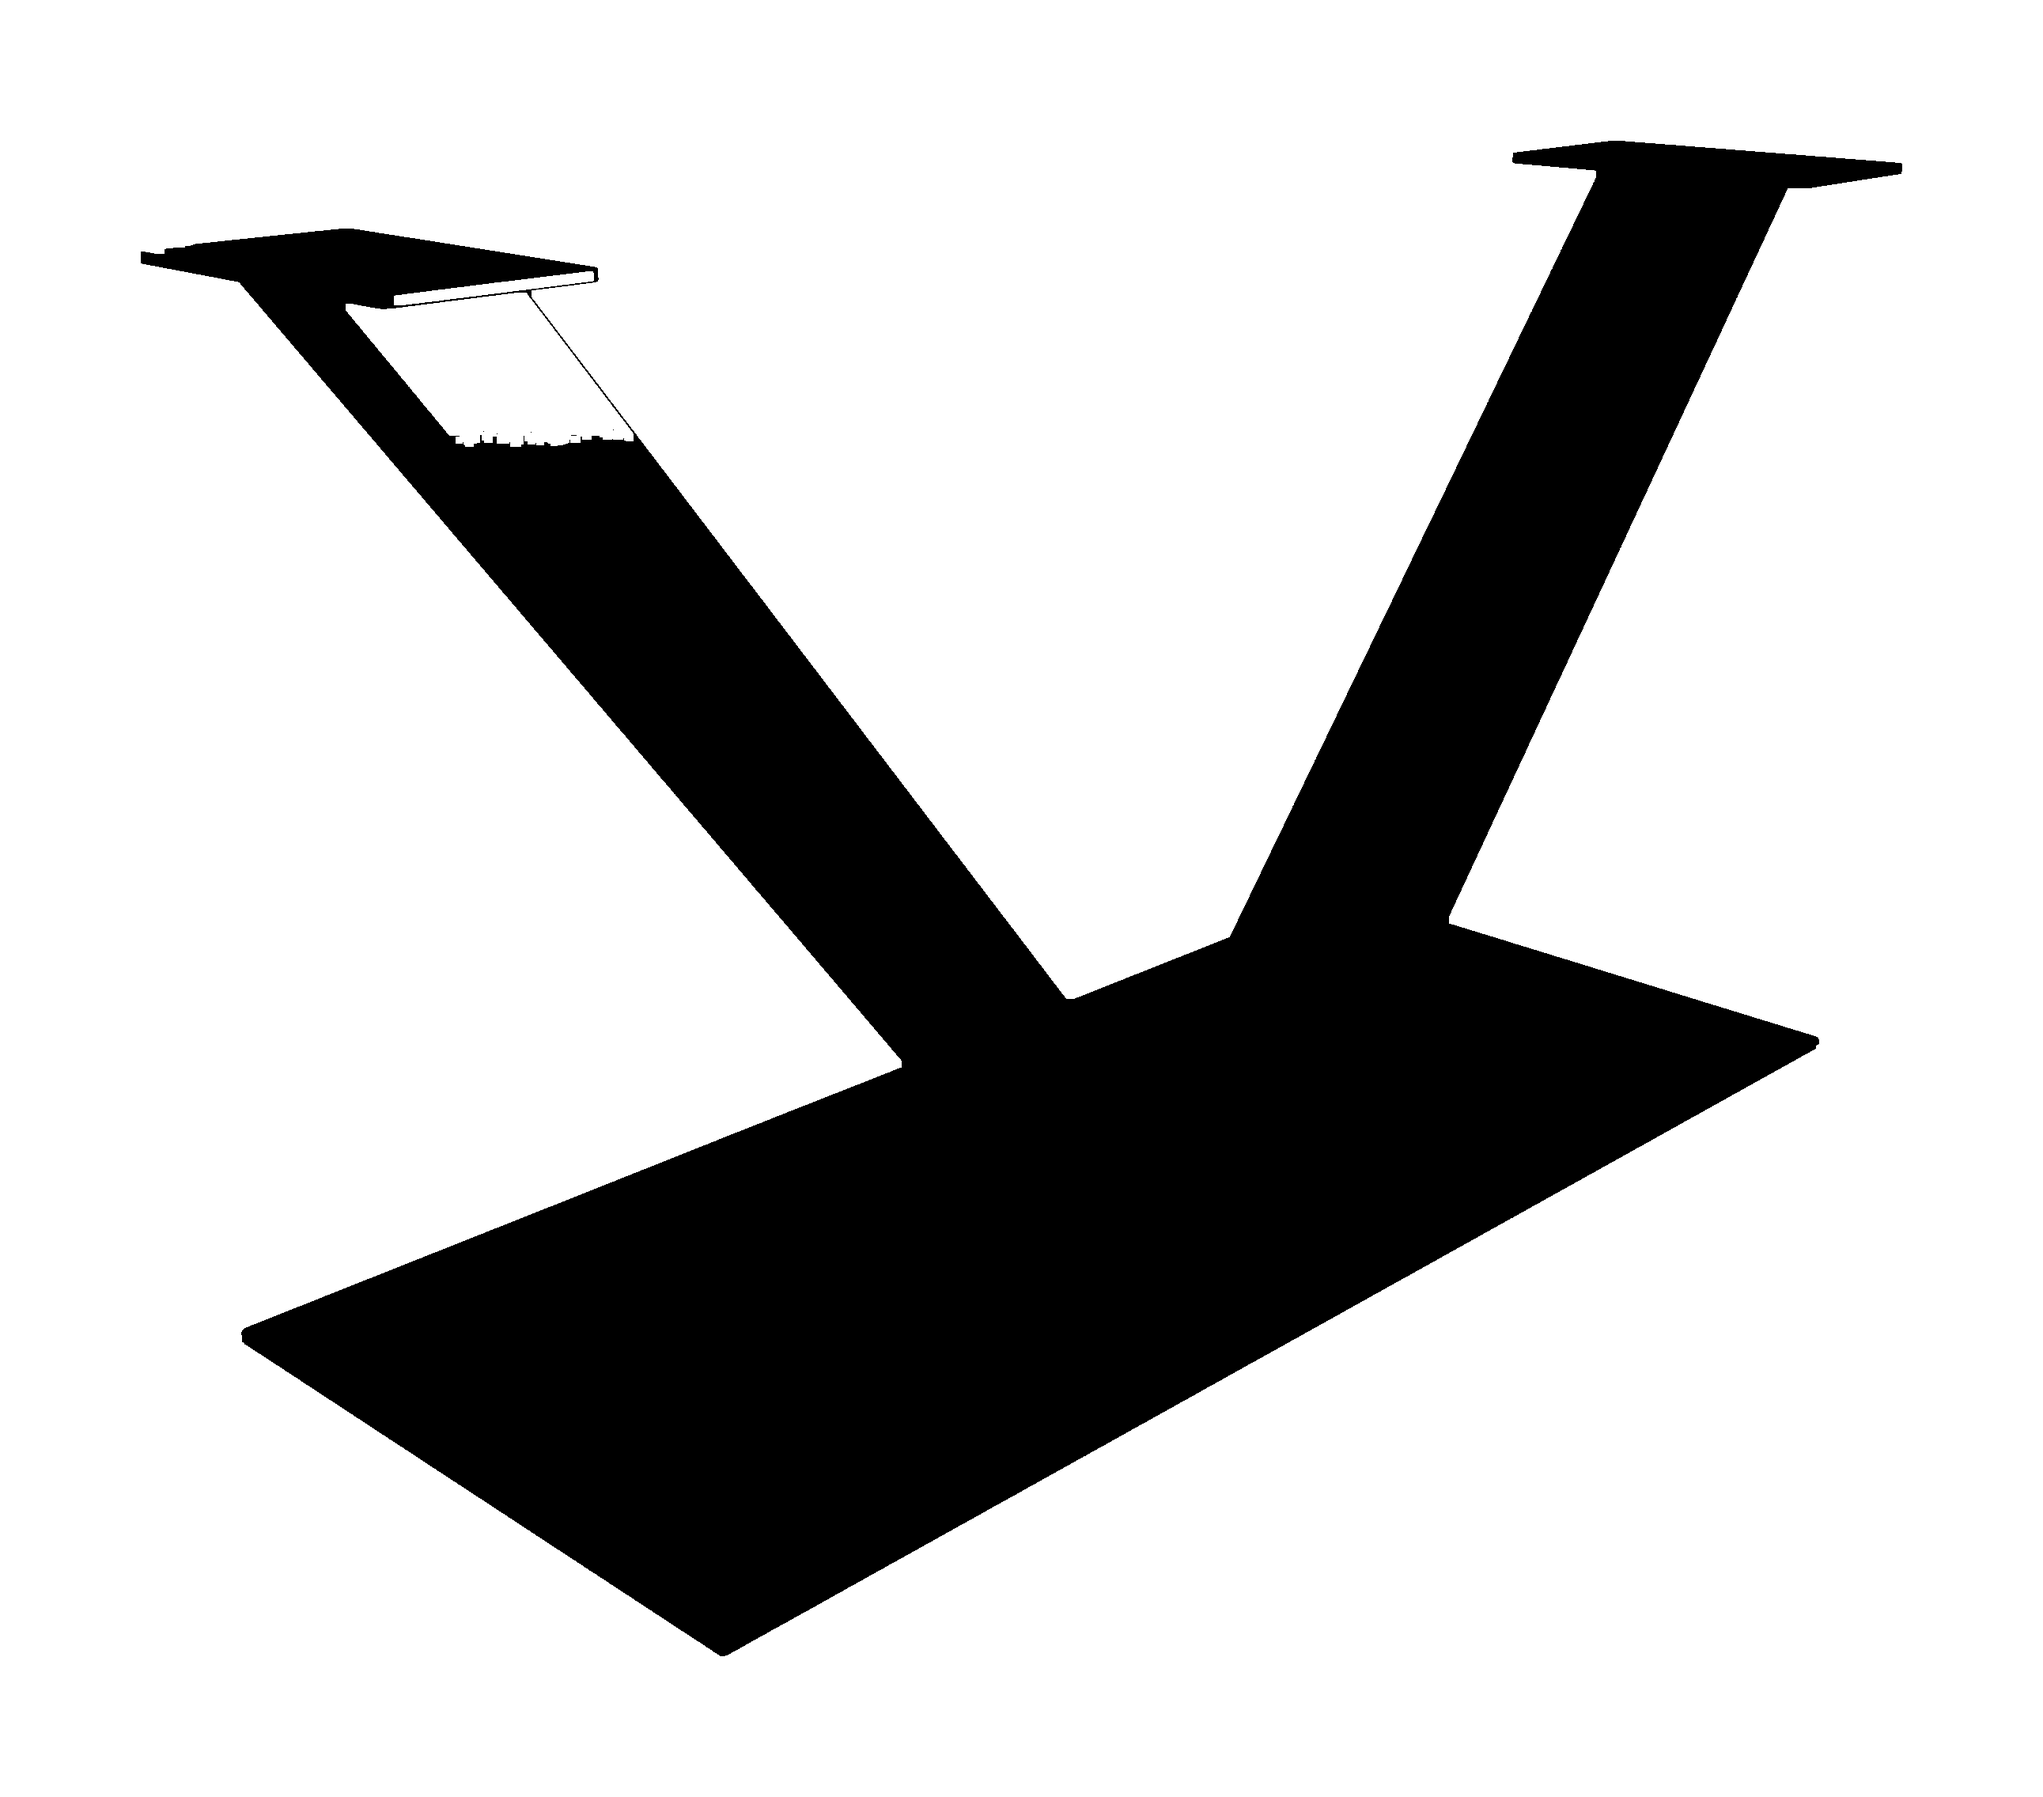
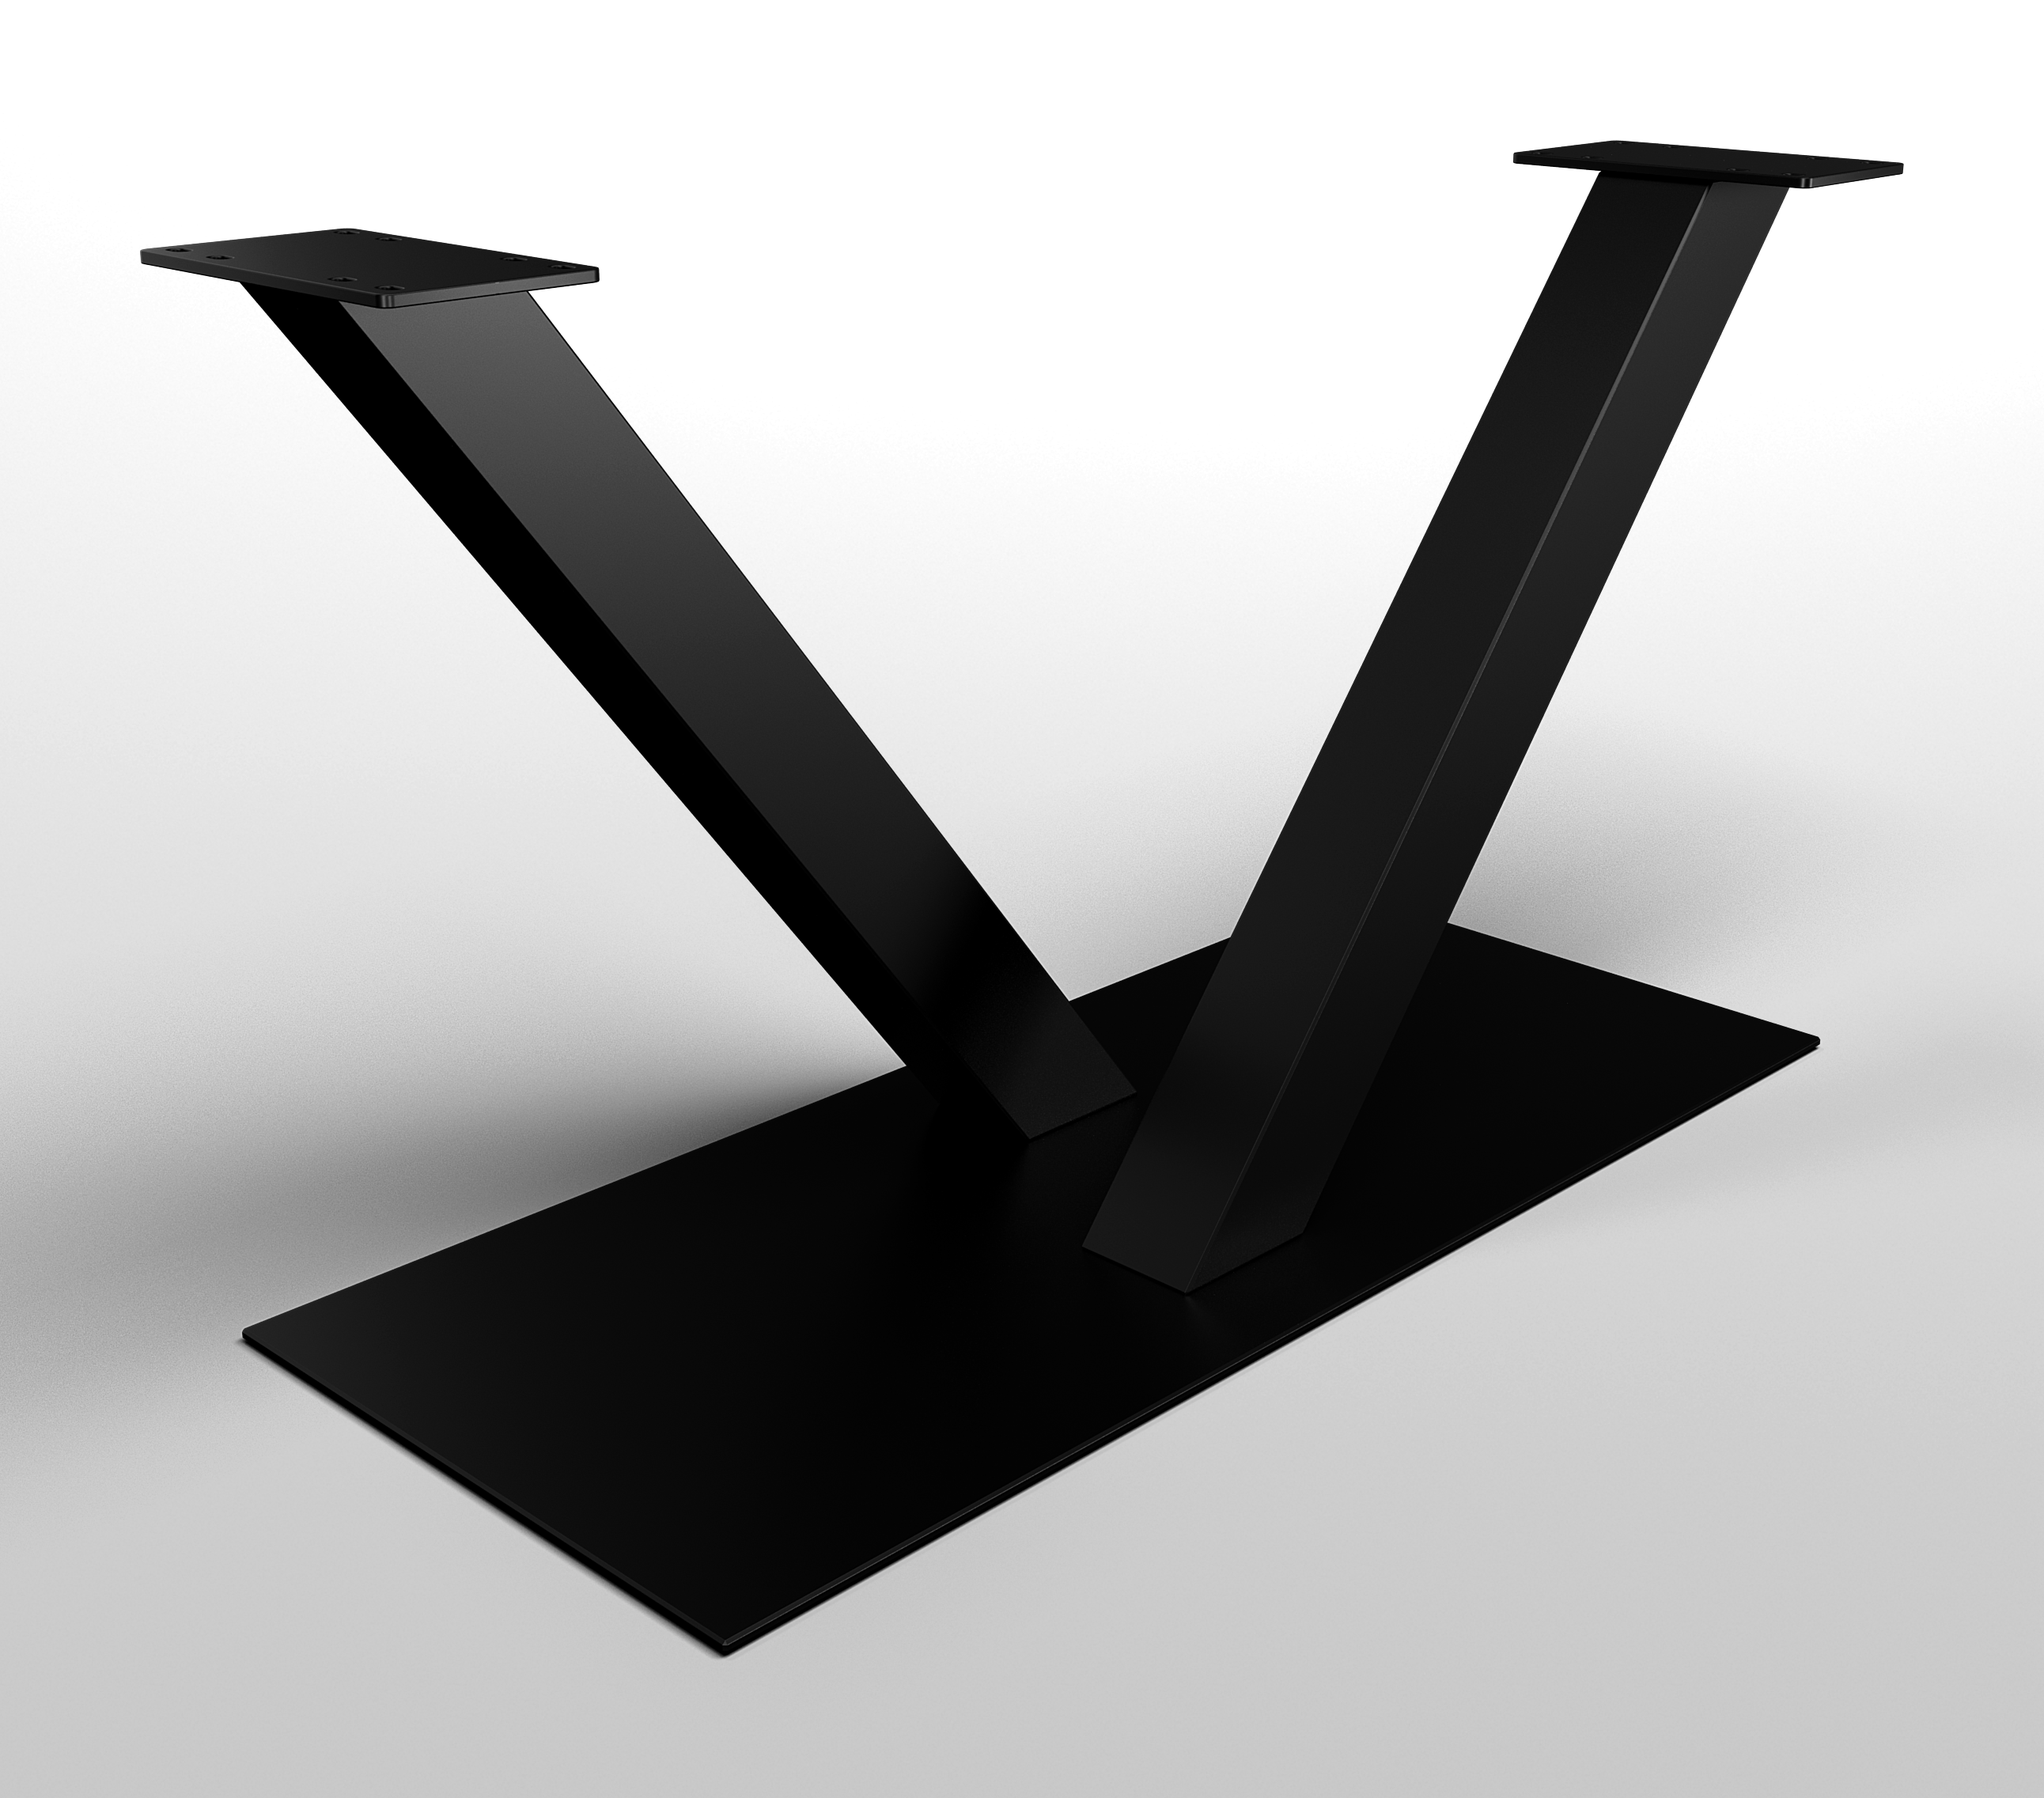
Fix V, X, U schmal — apply same grayscale photo style as other legs

diff --git a/configurator/js/app.js b/configurator/js/app.js
@@ -3581,10 +3581,10 @@ class TableConfigurator {
       if (name === 'Lara') {
         const file = 'Aeris Tischgestell aus Eichenholz_bw.png';
         void isWood;
-        return `<img src="Swatches/Onderstel/${file}?v=5122eaf-bw9" alt="${name}"/>`;
+        return `<img src="Swatches/Onderstel/${file}?v=873d792-bw10" alt="${name}"/>`;
       }
       const file = legSwatchFiles[name];
-      if (file) return `<img src="Swatches/Onderstel/${file}?v=5122eaf-bw9" alt="${name}"/>`;
+      if (file) return `<img src="Swatches/Onderstel/${file}?v=873d792-bw10" alt="${name}"/>`;
       // Fallback SVG for unmapped legs
       return `<svg viewBox="0 0 60 50" fill="none" stroke="currentColor" stroke-width="1.5"><line x1="5" y1="6" x2="55" y2="6"/><line x1="14" y1="6" x2="14" y2="46"/><line x1="46" y1="6" x2="46" y2="46"/></svg>`;
     };

diff --git a/configurator/index.html b/configurator/index.html
@@ -18,7 +18,7 @@
       }
     })();
   </script>
-  <link rel="stylesheet" href="css/styles.css?v=f1bd429">
+  <link rel="stylesheet" href="css/styles.css?v=c1a78da">
   <script type="module" src="https://ajax.googleapis.com/ajax/libs/model-viewer/3.4.0/model-viewer.min.js"></script>
   <link rel="preconnect" href="https://fonts.googleapis.com">
   <link href="https://fonts.googleapis.com/css2?family=Inter:wght@300;400;500;600&display=swap" rel="stylesheet">
@@ -297,6 +297,6 @@
     Konfigurieren
   </button>
 
-  <script type="module" src="js/app.js?v=f1bd429"></script>
+  <script type="module" src="js/app.js?v=c1a78da"></script>
 </body>
 </html>
